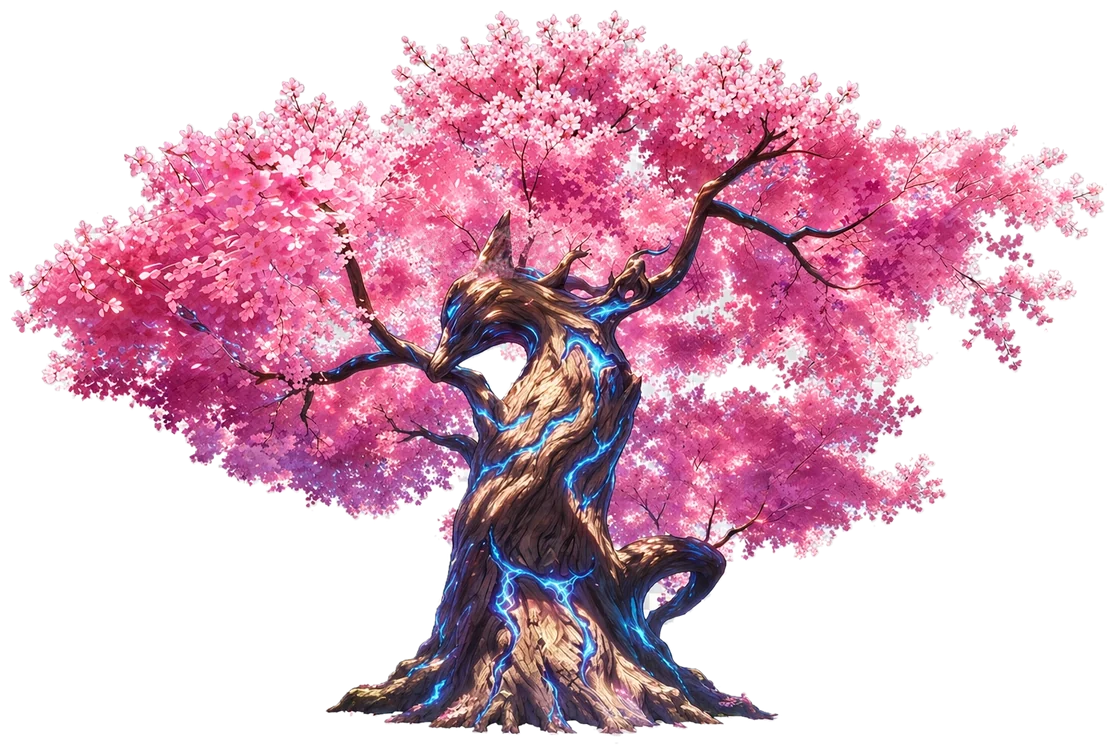
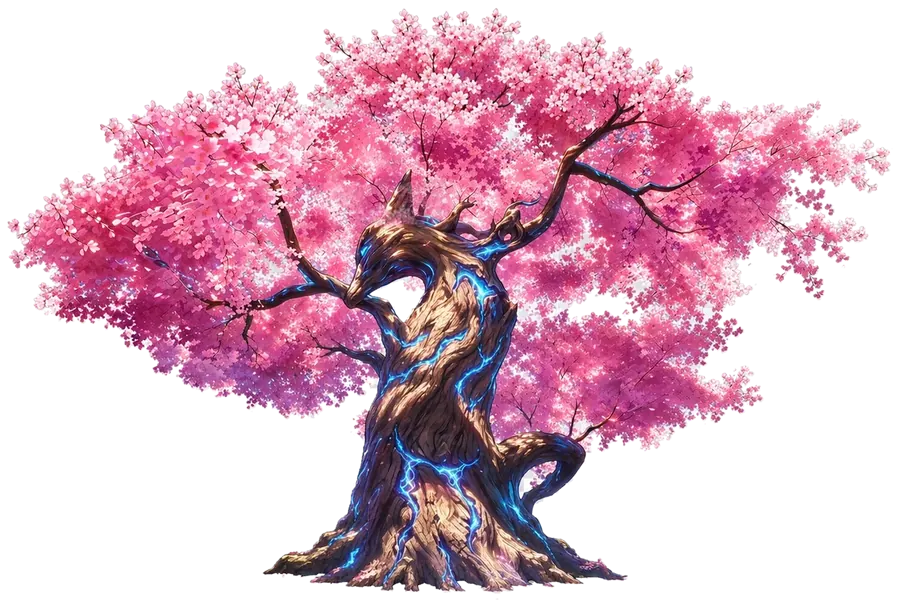
首屏减重：看板娘不再给别的皮肤付款，樱花树压掉一半
用户反馈「电脑打开主页变慢」。实测（绕开 SW 的冷启动）：
  dark 662KB / miko 略高，其中 miko.webp 158KB 在夜幕和乐园下白白下载，
  sakura-tree.webp 225KB 又只在八重用到。

三处改动：
1) 看板娘 <img> 加 loading=lazy：暗色/乐园下 .mast-miko-wrap 是 display:none，
   懒加载不会被触发，实测 dark 首屏 0 次请求（naturalWidth=0）；
   切到八重时元素可见，浏览器自己补图（实测 1 次请求、naturalWidth=400）。
   省 158KB。
2) sakura-tree.webp 重压：1116×753/225KB → 900×607/114KB（q78、alpha_quality=70）。
   显示宽度只有 430px，900 够 2 倍屏；浅底放大看边缘无白边。省 111KB。
3) 八重 + 起始页时 preload 樱花树：它是 CSS 背景，原本要等 CSS 解析完才发请求，
   现在和看板娘、刊头字体一起提前要。

配套：sw.js 的 ASSET 缓存 v6 → v7（同名换内容，不加一老访客会一直吃旧图）。

回归：check-v6 137/138（唯一失败是外部跳转抽查）、check-align 21/0。

diff --git a/index.html b/index.html
@@ -59,6 +59,9 @@
     if (document.documentElement.getAttribute('data-theme') === 'miko' &&
         document.documentElement.getAttribute('data-mode') === 'start') {
       [['assets/img/miko.webp', 'image', ''],
+       /* 樱花树是 CSS 背景，要等 CSS 解析完、发现 .st-mast::before 才发起请求；
+          提前 preload 能省掉那一轮。只在八重 + 起始页要它。 */
+       ['assets/img/sakura-tree.webp', 'image', ''],
        ['assets/fonts/mast-cherry-bomb-one.woff2', 'font', 'font/woff2']]
       .forEach(function (r) {
         var l = document.createElement('link');
@@ -248,7 +251,7 @@
                默认就动，所以静帧那条去掉了（miko-still.webp 先留着，
                以后要用回来改这一行即可）。 -->
           <img data-src="assets/img/miko.webp" alt="" aria-hidden="true"
-               width="717" height="635" decoding="async">
+               width="717" height="635" decoding="async" loading="lazy">
         </picture>
         <p class="mast-bubble" data-bubble aria-hidden="true"></p>
       </div>

diff --git a/sw.js b/sw.js
@@ -46,7 +46,7 @@ const CODE = 'dyg-code-' + V;   /* HTML / CSS / JS：随代码版本走 */
    v3 → v4：音乐重编码成 Opus 立体声 40k，并换了一首（删《晚祷的钟声》、
    加《乐园漫记》）。内容变了必须手动加一，否则老访客的 Cache Storage 里
    一直是旧音频 —— 那个缓存是按文件名存的，同名换内容它根本不知道。 */
-const ASSET = 'dyg-asset-v6';   /* 图片 / 字体 / 音频：不随代码版本走，
+const ASSET = 'dyg-asset-v7';   /* 图片 / 字体 / 音频：不随代码版本走，
                                    只有这些文件真的换内容了才手动把 -vN 加一 */
 
 /* GitHub Pages 的 HTTP 缓存头改不了，固定 max-age=600。
